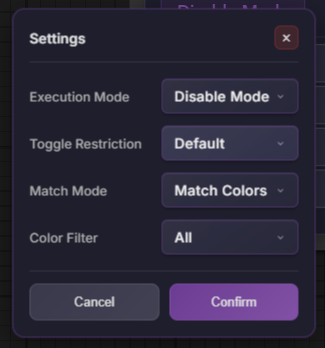
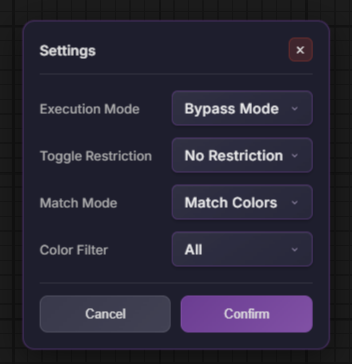
- 组开关管理器节点(GroupSwitchManager)：   - 修复分组排序功能失灵问题   - 移除"最多一个"限制选项，简化切换限制逻辑 - 多平台翻译器(MultiPlatformTranslate):优化调整翻译设置界面样式和交互效果

diff --git a/web/GroupSwitchManager.js b/web/GroupSwitchManager.js
@@ -33,8 +33,7 @@ const i18n = {
         matchColors: "匹配颜色",
         matchTitle: "匹配标题",
         toggleRestriction: "切换限制",
-        restrictionDefault: "默认",
-        restrictionMaxOne: "最多一个",
+        restrictionUnlimited: "无限制",
         restrictionAlwaysOne: "始终一个",
         matchTitlePlaceholder: "输入标题关键词...",
         matchTitleHelp: "使用逗号分隔多个关键词"
@@ -71,8 +70,7 @@ const i18n = {
         matchColors: "Match Colors",
         matchTitle: "Match Title",
         toggleRestriction: "Toggle Restriction",
-        restrictionDefault: "Default",
-        restrictionMaxOne: "Max One",
+        restrictionUnlimited: "Unlimited",
         restrictionAlwaysOne: "Always One",
         matchTitlePlaceholder: "Enter title keywords...",
         matchTitleHelp: "Use commas to separate multiple keywords"
@@ -269,7 +267,7 @@ app.registerExtension({
             this.properties.switchMode = this.properties.switchMode || 'ignore';
             this.properties.matchMode = this.properties.matchMode || 'colors';
             this.properties.titleKeywords = this.properties.titleKeywords || '';
-            this.properties.toggleRestriction = this.properties.toggleRestriction || 'default';
+            this.properties.toggleRestriction = this.properties.toggleRestriction || 'unlimited';
             this.groupReferences = new WeakMap();
             this._processingStack = new Set();
             this.size = [400, 500];
@@ -1950,9 +1948,9 @@ app.registerExtension({
             this._processingStack.add(groupName);
 
             try {
-                const toggleRestriction = this.properties.toggleRestriction || 'default';
+                const toggleRestriction = this.properties.toggleRestriction || 'unlimited';
 
-                if (enable && toggleRestriction !== 'default') {
+                if (enable && toggleRestriction !== 'unlimited') {
                     const currentEnabledGroups = this.properties.groups.filter(g => g.enabled);
                     
                     if (toggleRestriction === 'always_one') {
@@ -1961,13 +1959,6 @@ app.registerExtension({
                                 this.toggleGroupInternal(g.group_name, false);
                             }
                         });
-                    } else if (toggleRestriction === 'max_one') {
-                        if (currentEnabledGroups.length > 0) {
-                            const existingEnabled = currentEnabledGroups.find(g => g.group_name !== groupName);
-                            if (existingEnabled) {
-                                this.toggleGroupInternal(existingEnabled.group_name, false);
-                            }
-                        }
                     }
                 }
 
@@ -2055,7 +2046,7 @@ app.registerExtension({
 
             const locale = getLocale();
             const currentMode = this.properties.switchMode || 'ignore';
-            const currentRestriction = this.properties.toggleRestriction || 'default';
+            const currentRestriction = this.properties.toggleRestriction || 'unlimited';
             const currentMatchMode = this.properties.matchMode || 'colors';
             const currentColorFilter = this.properties.selectedColorFilter || '';
             const currentTitleKeywords = this.properties.titleKeywords || '';
@@ -2066,8 +2057,7 @@ app.registerExtension({
             ];
 
             const restrictionOptions = [
-                { value: 'default', label: t('restrictionDefault') },
-                { value: 'max_one', label: t('restrictionMaxOne') },
+                { value: 'unlimited', label: t('restrictionUnlimited') },
                 { value: 'always_one', label: t('restrictionAlwaysOne') }
             ];
 

diff --git a/CHANGELOG.md b/CHANGELOG.md
@@ -1,10 +1,14 @@
 # 更新日志
 
 ## 1.0.29 2026-4-15
-- 组开关管理器节点(GroupSwitchManager)：修复分组排序功能失灵问题。
+- 组开关管理器节点(GroupSwitchManager)：
+  - 修复分组排序功能失灵问题
+  - 移除"最多一个"限制选项，简化切换限制逻辑
 - 多平台翻译器(MultiPlatformTranslate):优化调整翻译设置界面样式和交互效果
   <br>
-- GroupSwitchManager node: Fixed the issue where group sorting function was not working.
+- GroupSwitchManager node: 
+  - Fixed the issue where group sorting function was not working.
+  - Removed "At Most One" limit option, simplifying switch limit logic.
 - MultiPlatformTranslate node: Optimized translation settings interface styles and interactions
 
 ## 1.0.28 2026-4-14
